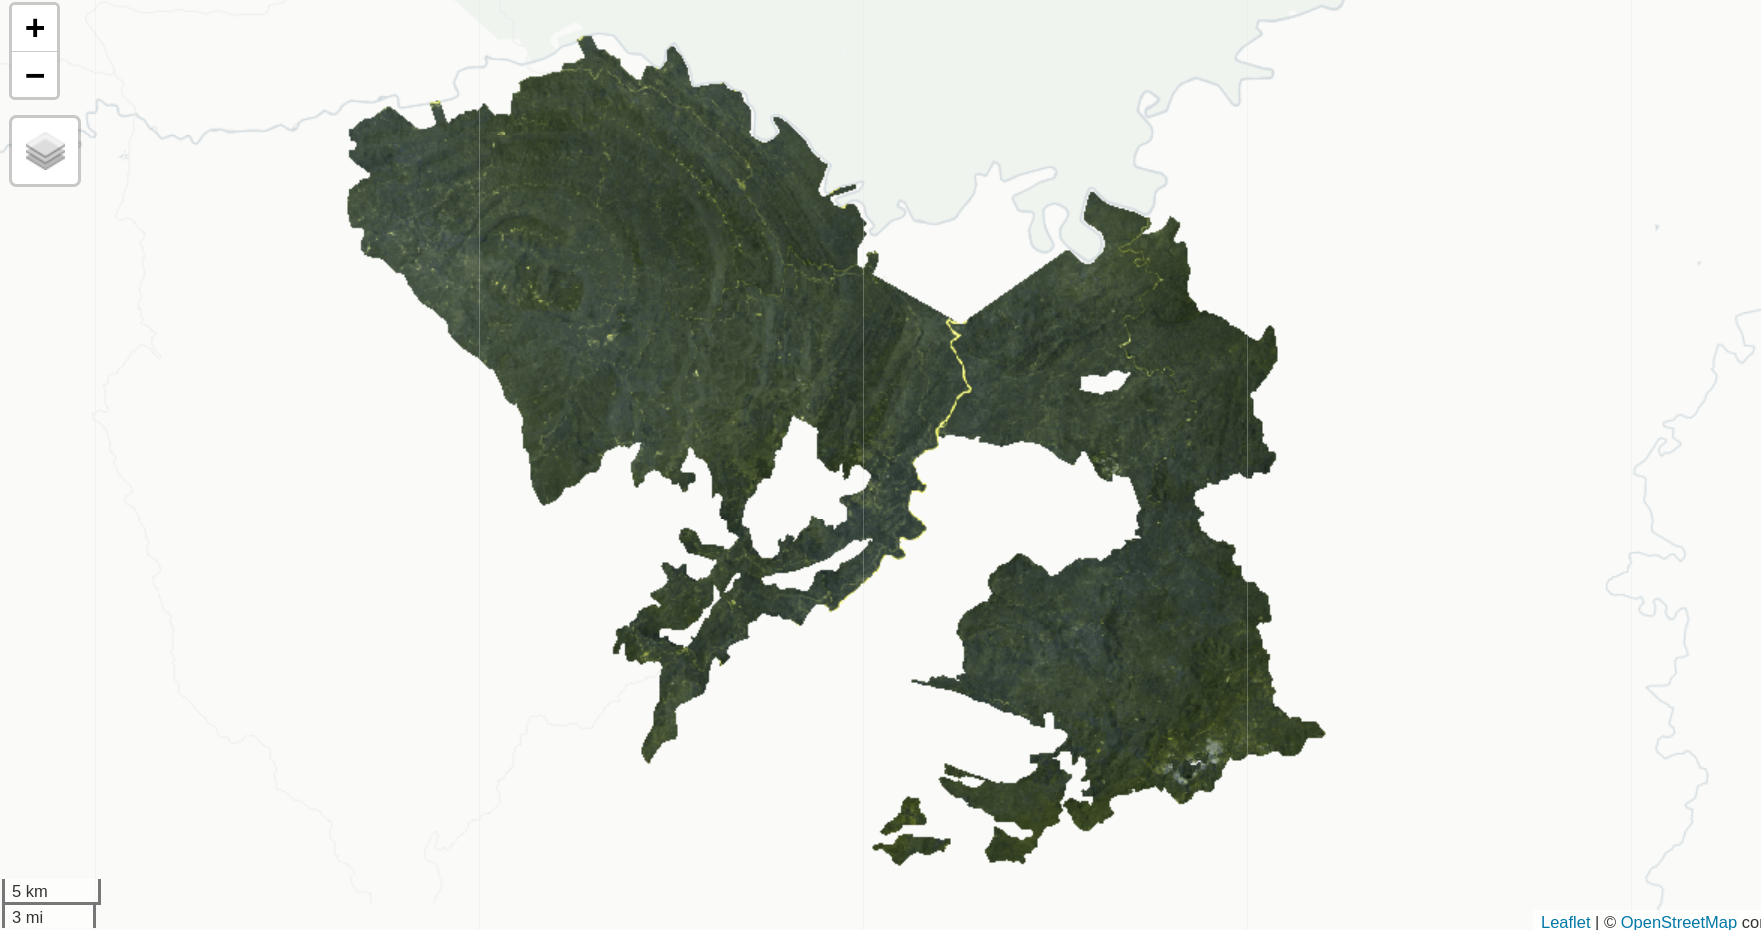
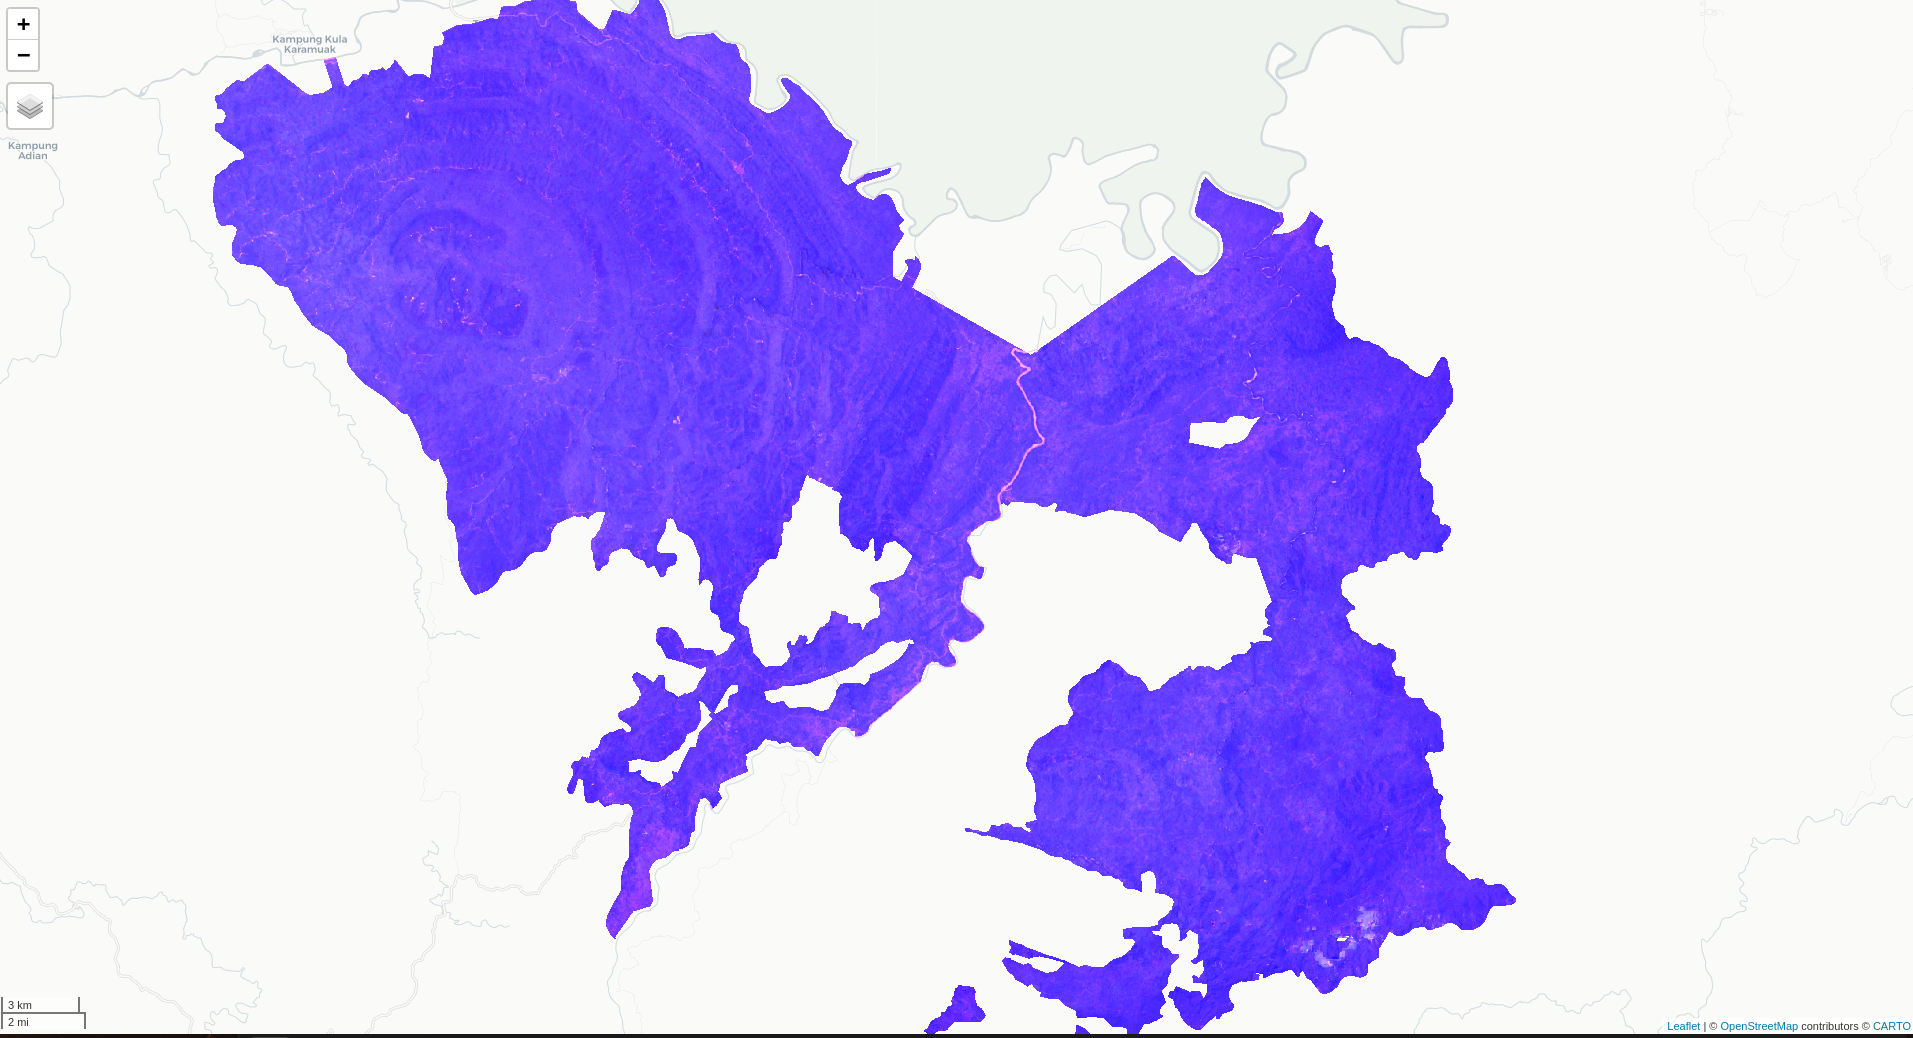
README update

diff --git a/README.md b/README.md
@@ -49,10 +49,11 @@ x_img <- l8_collect_mask_clouds(x)$ # landsat 8 cloud and shadow mask.
 
 
 vizParams <- list(
-  bands = c('B4', 'B4', 'B2'),
+  bands = c('B3', 'B4', 'B5'),
   min= 0,
   max= 1000,
-  gamma= c(0.95, 1.1, 1)
+  gamma= c(1.1, 0.95, 0.7)
+  # bias = c(0.5, 0.1, 0.3)
 )
 
 aoi_cent <- st_centroid(kuamut) %>%
@@ -60,7 +61,7 @@ aoi_cent <- st_centroid(kuamut) %>%
 
 Map$setCenter(lon = aoi_cent[1], lat = aoi_cent[2], zoom = 10)
 
-Map$addLayer(x_img, vizParams, 'FC-composite-2021')
+m <- Map$addLayer(x_img, vizParams, 'FC-composite-2021')
 ```
 
 ![FCC-example](man/FCC-21.png)
